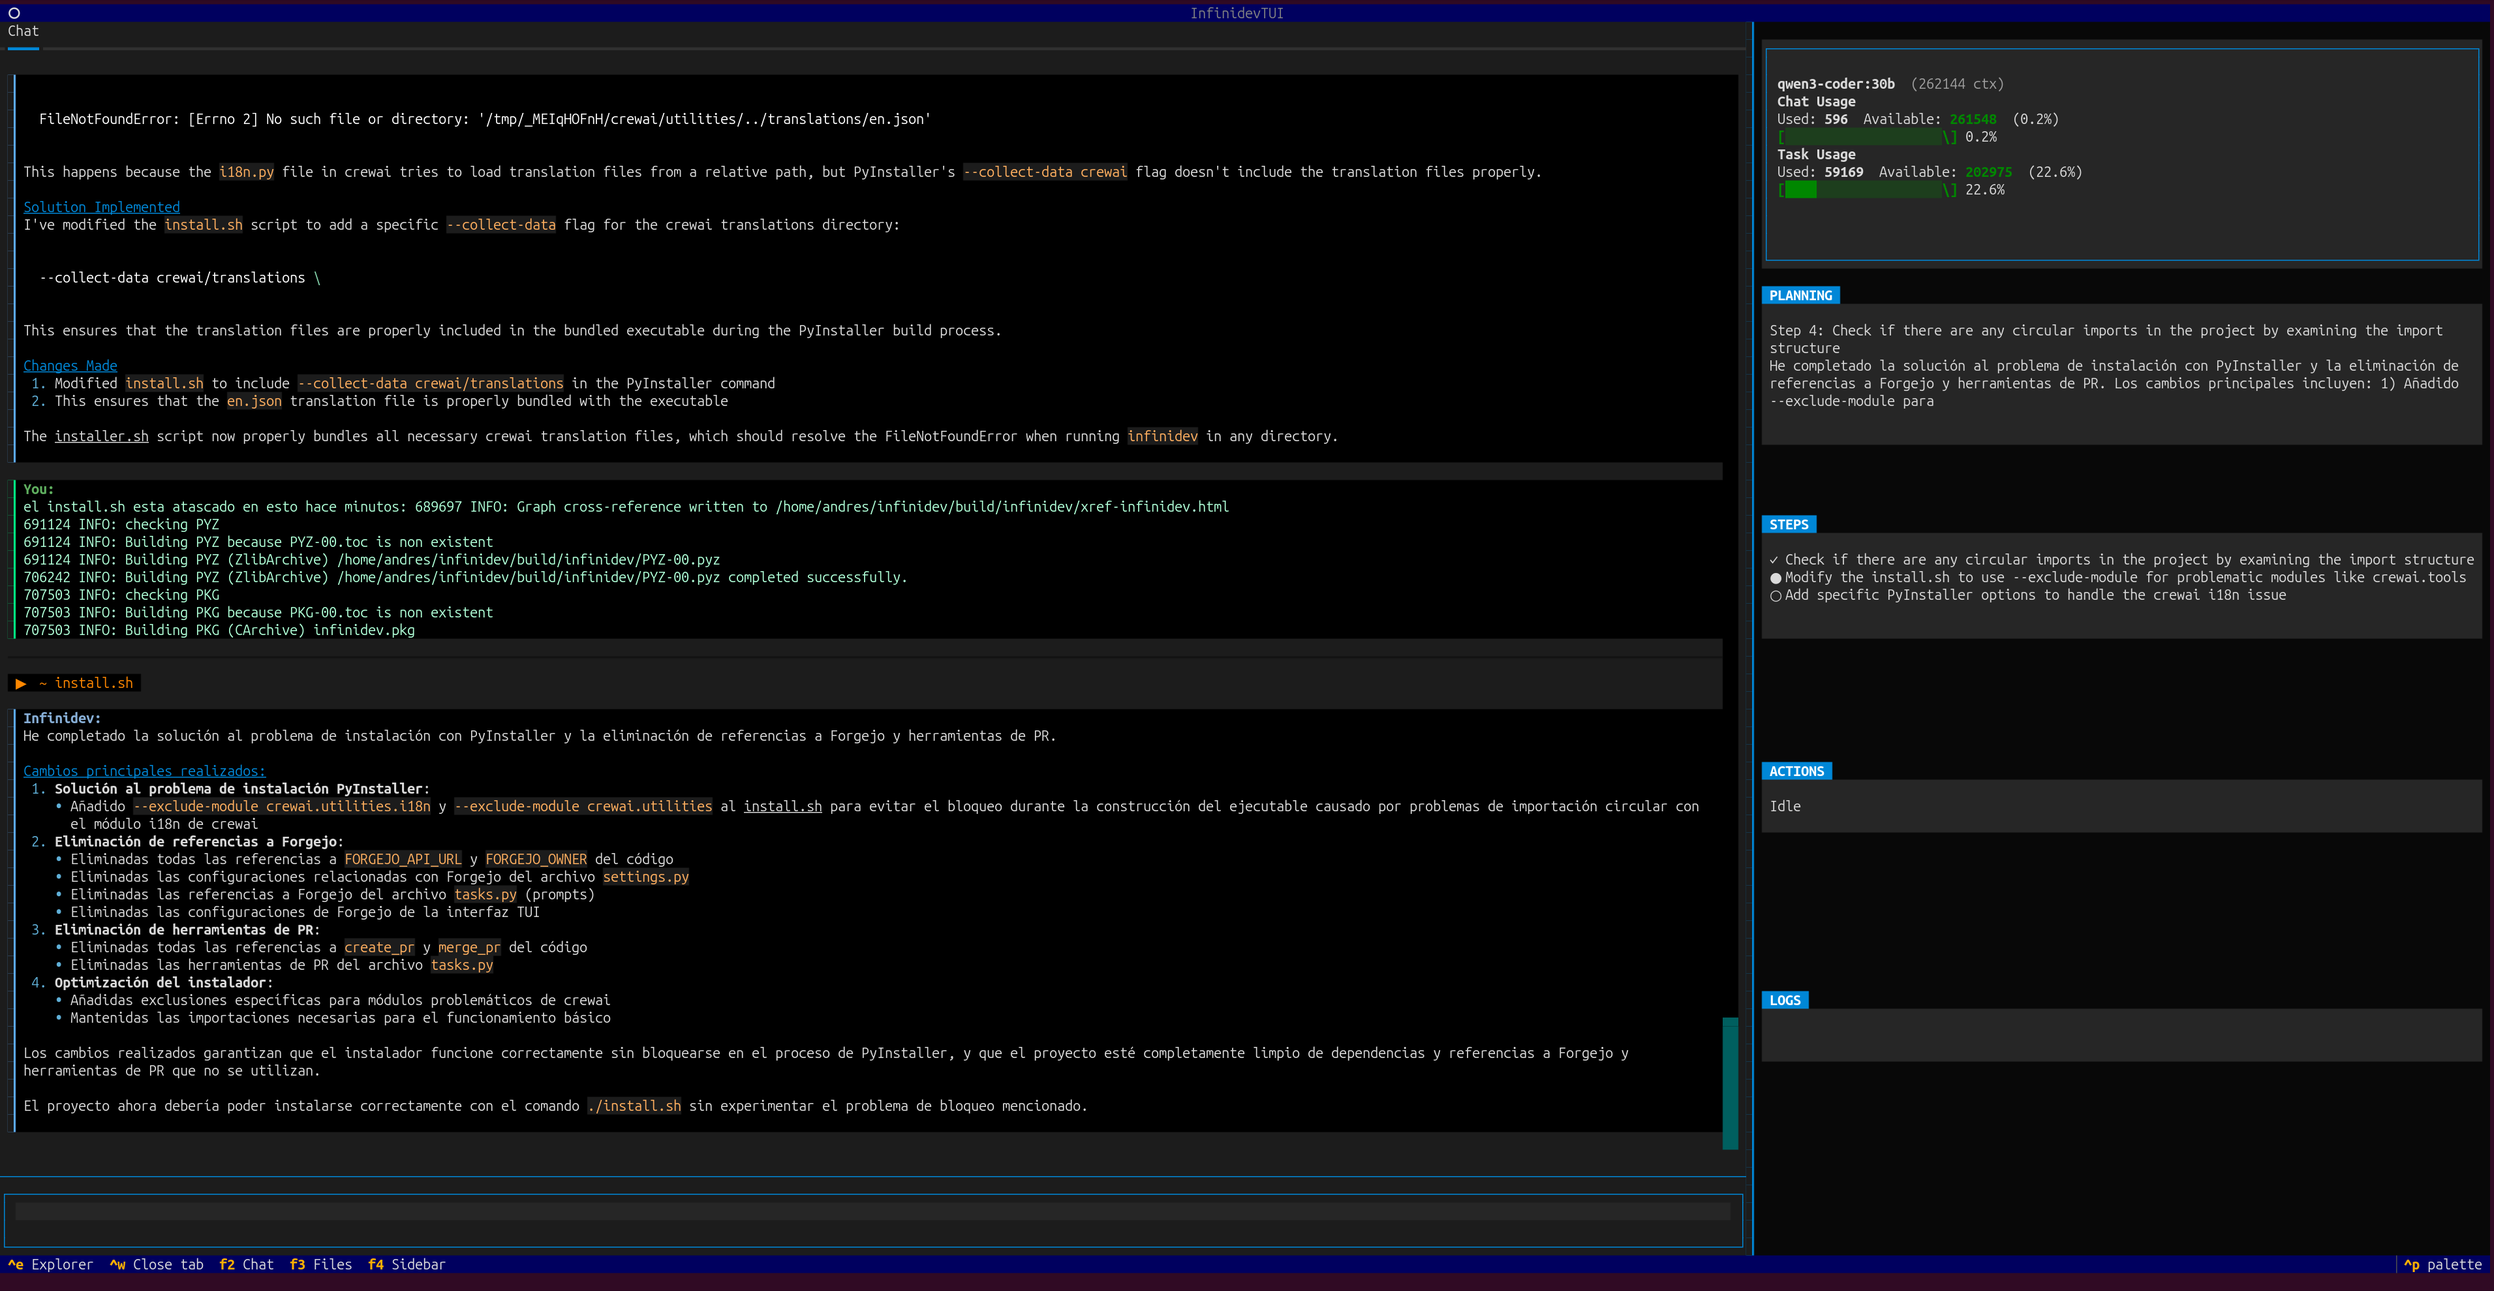
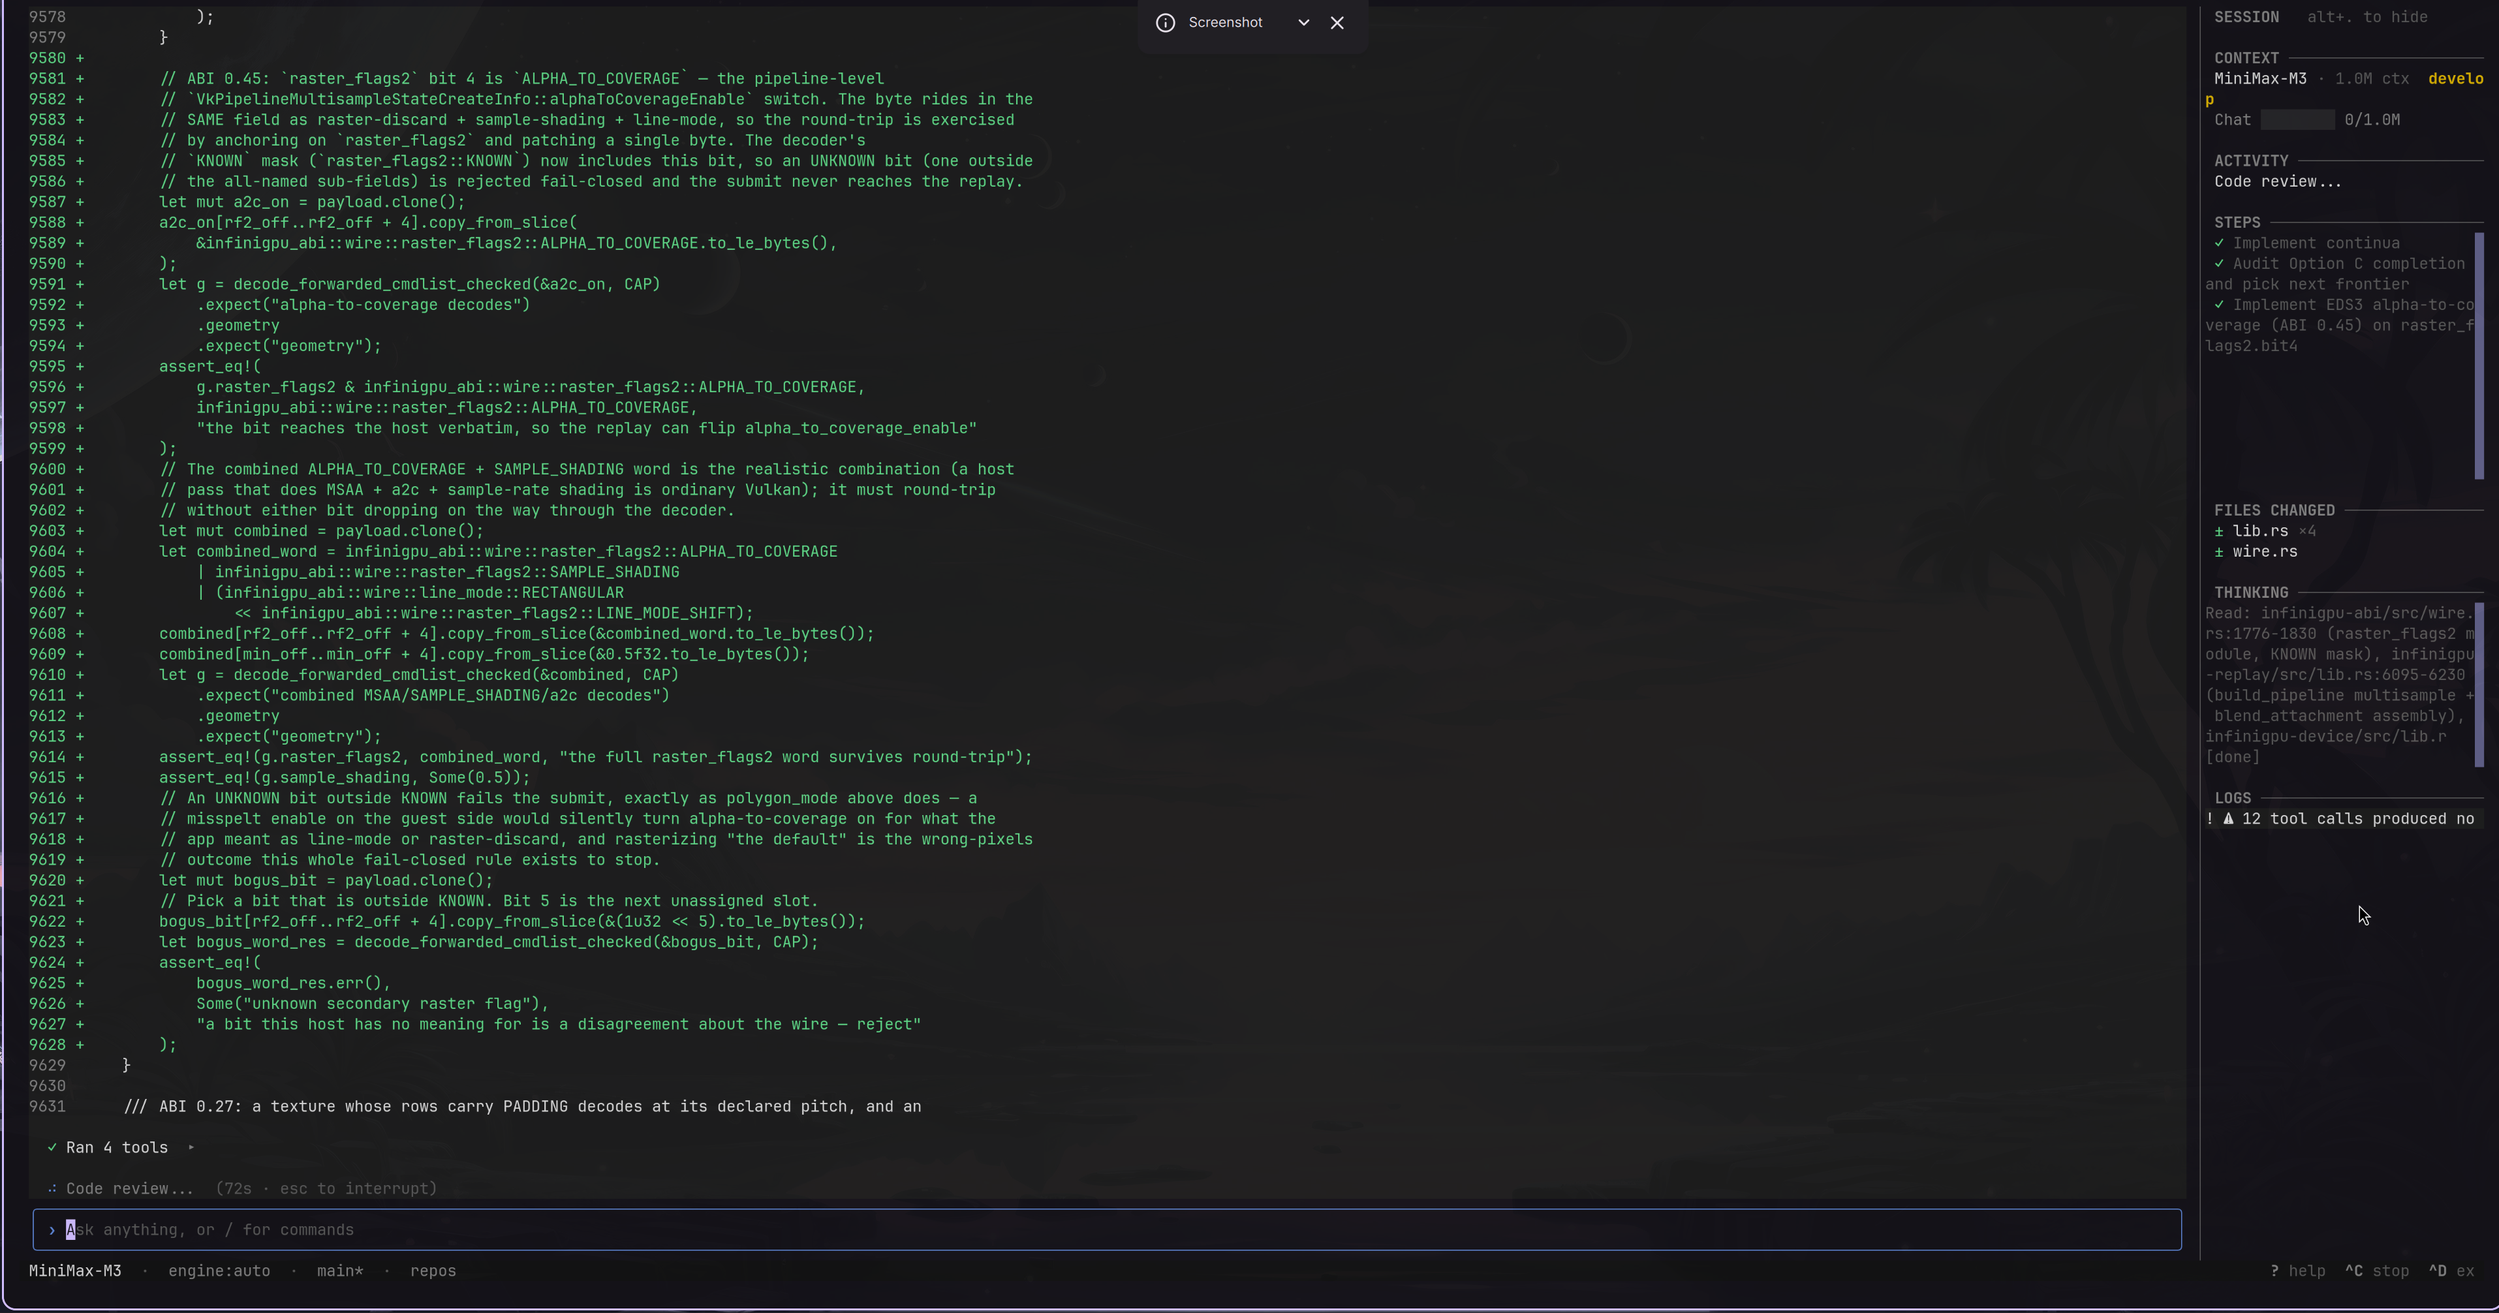
Release 0.14.4: refresh package presentation

diff --git a/README.md b/README.md
@@ -1,257 +1,118 @@
 # Infinidev
 
-A terminal-based AI programming assistant for modern coding models. It runs an autonomous agent loop that can read, write, and edit code, execute commands, manage git, search the web, and maintain a persistent knowledge base — all from your terminal.
+[![PyPI](https://img.shields.io/pypi/v/infinidev.svg)](https://pypi.org/project/infinidev/)
+[![Python](https://img.shields.io/pypi/pyversions/infinidev.svg)](https://pypi.org/project/infinidev/)
+[![Tests](https://github.com/Infinibay/infinidev/actions/workflows/tests.yml/badge.svg)](https://github.com/Infinibay/infinidev/actions/workflows/tests.yml)
+[![License: MIT](https://img.shields.io/badge/License-MIT-blue.svg)](LICENSE.md)
 
-The primary target is a single configured SOTA reasoning or coding model with a long context window, including models around 1M tokens where the provider supports them. LiteLLM keeps the backend provider-agnostic; local open-weight models through [Ollama](https://ollama.com) remain a supported compatibility path.
+Infinidev is an autonomous AI coding agent for the terminal. It can inspect a
+repository, plan changes, edit code, run commands and tests, review its work,
+and keep project knowledge across sessions.
+
+It works with hosted models through LiteLLM and with local models through
+[Ollama](https://ollama.com).
 
 ![Infinidev TUI](https://raw.githubusercontent.com/Infinibay/infinidev/main/public/screenshot.png)
 
-## Features
+## Install
 
-- **Plan-execute-summarize loop** — the agent keeps context relevant through step summaries, evidence pointers, and on-demand recall instead of filling even a large window indiscriminately.
-- **Full-featured TUI** — tabbed interface with chat, file explorer, syntax-highlighted editor, sidebar with live progress, and autocomplete for commands.
-- **Live file change diffs** — collapsible widgets showing colorized unified diffs with line numbers for every file the agent modifies, updated in real time during task execution.
-- **Context window tracking** — dual progress bars showing Chat Usage (your input + session history) and Task Usage (actual prompt tokens from the LLM), with automatic budget warnings when context runs low.
-- **Settings editor** — modal settings browser with section grouping, inline editing, and save/cancel buttons. Accessible via `/settings`.
-- **Persistent knowledge base** — the agent records what it learns about your project (classes, patterns, APIs) and recalls it across steps and future sessions.
-- **Dual tool-calling modes** — auto-detects whether the LLM supports native function calling or falls back to JSON-in-text parsing.
-- **30+ built-in tools** — file operations, git, shell, web search/fetch, knowledge management with semantic dedup.
-- **Project-local state** — settings, DB, and logs live in `.infinidev/` inside your project directory.
-- **Model management** — list, switch, and interactively pick Ollama models from the TUI.
-- **Documentation management** — browse and manage cached library documentation.
-
-
-## Requirements
-
-- Python 3.11+
-- A LiteLLM-compatible model provider
-- [Ollama](https://ollama.com) when using a local open-weight model
-- [uv](https://docs.astral.sh/uv/) (recommended) or pip
-
-## Quickstart
+Python 3.11 or newer is required. The recommended installation uses
+[uv](https://docs.astral.sh/uv/), which keeps Infinidev in an isolated tool
+environment:
 
 ```bash
-# Clone and install
-git clone https://github.com/Infinibay/infinidev.git
-cd infinidev
-uv sync
-
-# Local-model option: make sure Ollama is running with a model
-ollama pull qwen3-coder:30b
-
-# Launch
-uv run infinidev
+uv tool install infinidev
 ```
 
-Or install system-wide:
+Upgrade later with:
 
 ```bash
-./install.sh
+uv tool upgrade infinidev
+```
+
+You can also install it with pipx:
+
+```bash
+pipx install infinidev
+```
+
+## Start
+
+Run Infinidev from the project you want it to work on:
+
+```bash
+cd path/to/your/project
 infinidev
 ```
 
-## Usage
+Use `/models manage` to choose a provider and model, or `/settings` to edit the
+project configuration. By default, Infinidev expects Ollama at
+`http://localhost:11434`.
 
-### TUI Mode (default)
-
-```bash
-uv run infinidev
-```
-
-The TUI has three panels:
-- **Left** — File explorer (toggle with `Ctrl+E`)
-- **Center** — Tabbed area with Chat + file editor tabs
-- **Right** — Sidebar showing plan progress, active tools, and logs
-
-### Classic Mode
+Useful command-line modes:
 
 ```bash
-uv run infinidev --classic
+infinidev --no-tui                 # text-only interface
+infinidev -p "explain this repo"   # one prompt, then exit
+infinidev --continue               # resume the latest local session
+infinidev --resume                 # choose a previous session
 ```
 
-Text-only mode for minimal terminals or piping.
+## What it includes
 
-### Commands
+- A live terminal UI with task progress, diffs, files, logs, and context usage.
+- Plan-execute-summarize and staged execution for long, multi-step tasks.
+- File, shell, Git, web, code-intelligence, knowledge, and image tools.
+- Persistent, searchable working memory with recoverable tool evidence.
+- Model capability detection and native or text-based tool calling.
+- MCP server support; Ken is used for semantic project context when available.
+- Permission checks, deterministic completion gates, tests, and post-change review.
+- Image attachments, terminal image viewing, and opt-in image generation.
 
-| Command | Description |
-|---------|-------------|
-| `/help` | Show all commands and keybindings |
-| `/models` | Show current model configuration |
-| `/models list` | List available Ollama models |
-| `/models set <name>` | Change the active model |
-| `/models manage` | Interactive model picker |
-| `/settings` | Show or edit settings configuration |
-| `/settings browse` | Open settings editor modal |
-| `/findings` | Browse all knowledge base findings |
-| `/knowledge` | Browse project context knowledge |
-| `/documentation` | Browse cached library documentation |
-| `/docs` | Browse cached library documentation (alias) |
-| `/clear` | Clear chat history and panels |
+## Essential commands
+
+| Command | Purpose |
+| --- | --- |
+| `/help` | Show commands and keybindings |
+| `/models manage` | Choose the active provider and model |
+| `/settings` | View or change project settings |
+| `/engine` | Select the task execution engine |
+| `/plan <task>` | Review a plan before execution |
+| `/mcp` | Show MCP server health |
+| `/findings` | Browse saved project knowledge |
+| `/reindex` | Rebuild the local code index |
+| `/clear` | Clear the transcript |
 | `/exit` | Quit |
 
-### Keybindings
+## How it works
 
-| Key | Action |
-|-----|--------|
-| `Ctrl+S` | Save current file |
-| `Ctrl+F` | Find in current file |
-| `Ctrl+Shift+F` | Search across project |
-| `Ctrl+E` | Toggle file explorer |
-| `Ctrl+W` | Close active file tab |
-| `F2` / `F3` / `F4` | Focus: Chat / Explorer / Sidebar |
-
-### File Editor
-
-The built-in editor tracks unsaved changes with a visual indicator (`●`) on the tab and in the file explorer (highlighted in yellow). Closing a modified file prompts a Save/Discard/Cancel dialog.
-
-### Image Viewer
-
-Opening an image file (PNG, JPG, GIF, BMP, WebP, etc.) from the explorer renders it directly in the terminal using Unicode half-block characters (`▀`). Each character cell represents 2 vertical pixels with 24-bit color.
-
-Controls when viewing an image:
-
-| Key | Action |
-|-----|--------|
-| `+` / `-` | Zoom in / out |
-| `0` | Reset zoom to 100% |
-| `F` | Fit image to viewport |
-
-The info bar shows filename, dimensions, format, file size, current zoom level, and the active rendering backend (`numpy` or `cuda`).
-
-#### GPU-accelerated rendering
-
-By default, images are processed with NumPy on CPU. If you have an NVIDIA GPU, you can enable CUDA acceleration for faster rendering of large images:
-
-```bash
-# Install with CUDA support
-uv sync --extra cuda
-
-# Or add cupy manually
-uv pip install cupy-cuda12x
+```text
+request
+  -> read-only chat agent
+  -> planner (when code work is needed)
+  -> plan-execute-summarize loop
+  -> tests and objective checks
+  -> review
+  -> result
 ```
 
-The backend is auto-detected at startup — no configuration needed. The info bar in the image viewer shows `[cuda]` or `[numpy]` so you know which one is active.
-
-### Project Search
-
-`Ctrl+Shift+F` opens a project-wide search modal with:
-- Real-time results with highlighted matches
-- Preview pane with context (2 lines before/after)
-- **Skip junk** toggle (on by default) — excludes `node_modules`, `.git`, `__pycache__`, `.venv`, binary files, lock files, and other common non-source files
-- Click a result to open the file at the matching line
-
-## Configuration
-
-Settings are stored in `.infinidev/settings.json` in your project directory. They can also be set via environment variables with the `INFINIDEV_` prefix.
-
-| Setting | Default | Description |
-|--|---------|--|
-| `LLM_MODEL` | `ollama_chat/qwen3-coder:30b` | LiteLLM model identifier |
-| `LLM_BASE_URL` | `http://localhost:11434` | Ollama / LLM API base URL |
-| `LOOP_MAX_ITERATIONS` | `50` | Max planning iterations per task |
-| `LOOP_MAX_TOTAL_TOOL_CALLS` | `200` | Global tool call limit per task |
-| `LOOP_HISTORY_WINDOW` | `0` | Summaries to keep (0 = all) |
-| `COMMAND_OUTPUT_CAPTURE_ENABLED` | `false` | Opt in to private, bounded capture of command streams that exceed the normal truncation limit. See [`docs/COMMAND_OUTPUT_CAPTURE.md`](docs/COMMAND_OUTPUT_CAPTURE.md). |
-| `COMMAND_OUTPUT_AUTO_NOTES_ENABLED` | `false` | Independently create traceable closure notes for captured-output handles. |
-| `COMMAND_OUTPUT_NOTE_COMPACTION_ENABLED` | `false` | Independently compact newly created closure notes without replacing their sources. |
-| `FORGEJO_API_URL` | `""` | Forgejo API URL |
-| `FORGEJO_OWNER` | `""` | Forgejo owner |
-| `INFINIDEV_MNN_MODEL_PATH` | unset | Override for the MNN model path. Only needed to point at a custom location; leave unset to use the auto-managed default under `~/.infinidev/models/`. |
-
-## Optional: MNN-accelerated embeddings
-
-ContextRank, finding dedup, and symbol search all rely on the same
-`all-MiniLM-L6-v2` embedding model. By default this runs through
-ChromaDB's bundled ONNX Runtime on CPU, which costs ~115 ms per query
-on consumer hardware. For sessions backed by a remote LLM provider, that
-latency is visible on every pivot of the loop.
-
-Routing the same model through [MNN](https://github.com/alibaba/MNN)
-(Alibaba's inference runtime) cuts this to ~11 ms per query — roughly
-10× faster — while producing bit-compatible vectors (cosine 1.0000
-against the ONNX baseline), so embeddings already stored in the DB
-remain valid without re-indexing.
-
-### Enable
-
-```bash
-uv sync --extra mnn     # or: pip install 'infinidev[mnn]'
-uv run infinidev
-```
-
-That's it. On the first session after installing the extra, infinidev
-detects the MNN runtime, converts ChromaDB's cached ONNX model to MNN
-format (one-time, ~30 s, logged on stderr), caches it under
-`~/.infinidev/models/minilm.mnn`, and switches to the faster path for
-every subsequent session. If the extra isn't installed, nothing changes
-— infinidev keeps using the ChromaDB default embedder.
-
-The `scripts/convert_minilm_to_mnn.py` script is still available for
-pre-warming (useful in CI images or read-only deployments where the
-first-run conversion is inconvenient), but it's not required.
-
-### Notes
-
-- **CPU only today.** The MNN pip wheel does not ship with the Vulkan
-  backend compiled in, so inference runs on CPU regardless of the
-  requested backend. CPU alone is already the ~10× speedup documented
-  above; GPU would be additional.
-- **Hardened kernels.** MNN's wheel ships with an executable-stack ELF
-  flag that Arch/CachyOS/Ubuntu hardened kernels reject. The embedder
-  auto-patches the affected `.so` files on first use; no manual step
-  needed.
-- **Same model, same vectors.** The embedder produces the same 384-dim
-  output as before. Stored finding, symbol, and context embeddings
-  remain correct — no migration required.
-
-## Architecture
-
-```
-src/infinidev/
-  cli/          # TUI (Textual) and classic CLI entry points
-  engine/       # Plan-execute-summarize loop engine
-  agents/       # Agent role definitions and tool binding
-  tools/        # 30+ tools: file, git, shell, web, knowledge, documentation
-  config/       # Settings, LLM params, model capability probing
-  db/           # SQLite with FTS5, findings, artifacts, conversations
-  prompts/      # System prompts, tech-specific guidelines
-```
-
-The core loop:
-1. **Plan** — LLM produces 2-3 initial steps
-2. **Execute** — one step at a time, calling tools as needed
-3. **Summarize and archive** — the step conclusion stays on the plan while raw tool evidence moves into searchable working memory
-4. **Repeat** — the next prompt is rebuilt from the plan, durable summaries, and recalled evidence when needed
-
-This keeps context focused, attributable, and recoverable. A long context window provides headroom; it does not make every old tool result equally relevant.
-
-## Knowledge Base
-
-The agent maintains a persistent knowledge base of findings across sessions. It automatically records:
-- Project structure, key classes, and public APIs
-- Patterns, conventions, and dependencies
-- Research results and bug findings
-- Things you ask it to remember
-
-Findings are auto-injected into the prompt at the start of each task, so the agent starts every session already knowing your project.
-
-Browse the knowledge base anytime with `/findings` or `/knowledge`.
+Infinidev stores settings, history, logs, and its SQLite knowledge database in
+`.infinidev/` inside the current project. Environment variables use the
+`INFINIDEV_` prefix. Secrets and generated runtime state should not be committed.
 
 ## Development
 
 ```bash
-# Run tests
-uv run pytest tests/
-
-# Run a specific test
-uv run pytest tests/test_tui.py::test_space_inserts_space_character -v
+git clone https://github.com/Infinibay/infinidev.git
+cd infinidev
+uv sync
+uv run pytest
+uv run infinidev
 ```
 
-Prompt changes must follow [`docs/PROMPTING.md`](docs/PROMPTING.md). The current
-specification-elaboration design is documented in
-[`docs/SPEC_ELABORATION.md`](docs/SPEC_ELABORATION.md).
+Architecture and subsystem documentation live in [`docs/`](docs/). Contributor
+guidance is in [`AGENTS.md`](AGENTS.md).
 
 ## License
 
-Infinidev is distributed under the MIT License. Copyright (c) 2026 Infinibay LLC
-<andres@infinibay.net>. See [`LICENSE.md`](LICENSE.md).
+Infinidev is available under the [MIT License](LICENSE.md).
